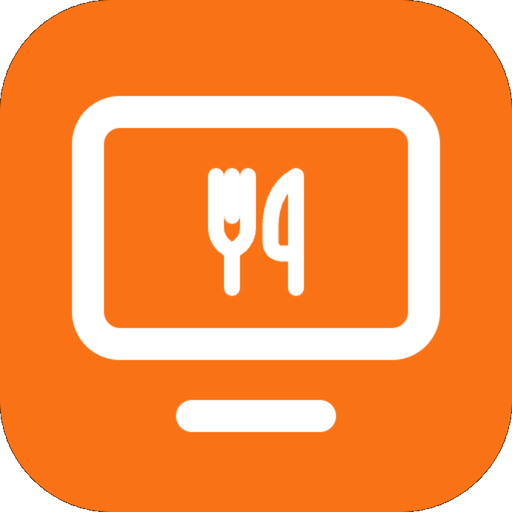
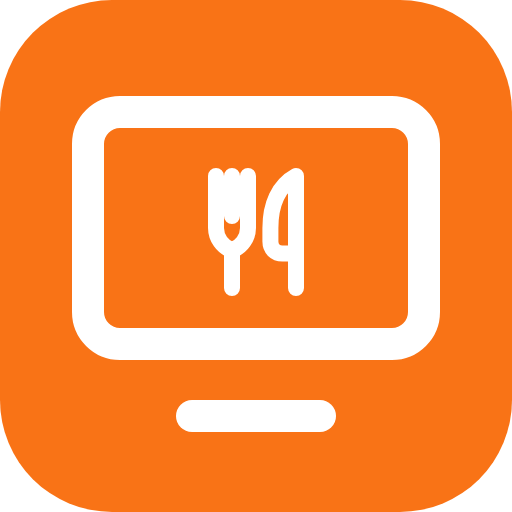
feat: rename Samsung TV app to Jhalak
- name, title and messages: Jhalak
- app ID JhalakTV01.Jhalak (not yet released, so safe to change)
- icon re-rendered from jhalak.app's own logo (menu-favicon.svg, #f97316)
- package output dist/Jhalak.wgt, default signing profile Jhalak

Claude-Session: https://claude.ai/code/session_01HhB58TkvkM69qu5EvorprL

diff --git a/app/js/main.js b/app/js/main.js
@@ -1,5 +1,5 @@
 /*
- * Menu Display launcher for Samsung TVs (Tizen).
+ * Jhalak launcher for Samsung TVs (Tizen).
  *
  * Runs once at app start, then hands the whole window to the display site:
  *   1. Turns the TV screensaver off so the menu stays on screen.
@@ -27,7 +27,7 @@
     var checking = false;
 
     function log(msg) {
-        if (window.console) console.log('[MenuDisplay] ' + msg);
+        if (window.console) console.log('[Jhalak] ' + msg);
     }
 
     function keepScreenOn() {
@@ -55,7 +55,7 @@
     }
 
     function showOffline() {
-        statusEl.textContent = 'Can’t reach Menu Display';
+        statusEl.textContent = 'Can’t reach Jhalak';
         hintEl.hidden = false;
     }
 

diff --git a/app/index.html b/app/index.html
@@ -3,7 +3,7 @@
 <head>
     <meta charset="utf-8">
     <meta name="viewport" content="width=device-width, initial-scale=1">
-    <title>Menu Display</title>
+    <title>Jhalak</title>
     <link rel="stylesheet" href="css/style.css">
     <!-- Samsung TV product APIs (screensaver). Only resolves on a TV; harmless elsewhere. -->
     <script src="$WEBAPIS/webapis/webapis.js"></script>

diff --git a/README.md b/README.md
@@ -1,6 +1,6 @@
-# Menu Display for Samsung TV (Tizen)
+# Jhalak for Samsung TV (Tizen)
 
-A small Tizen web app that puts the Menu Display menu board
+A small Tizen web app that puts the Jhalak menu board
 (`https://jhalak.app/cast`) full screen on a Samsung Smart TV.
 
 > Branch `Samsung`. The Fire TV / Android app (React Native) lives on
@@ -11,7 +11,7 @@ A small Tizen web app that puts the Menu Display menu board
 `app/index.html` + `app/js/main.js` run once at launch:
 
 1. Turn the TV screensaver off (`webapis.appcommon.setScreenSaver`).
-2. Check the site is reachable. If not, show a "Can't reach Menu Display"
+2. Check the site is reachable. If not, show a "Can't reach Jhalak"
    screen and retry (5 s, backing off to 60 s, and immediately when the
    network comes back).
 3. Open `/cast` as the app's page. From there the site does everything:
@@ -36,11 +36,11 @@ app/            the Tizen project (this folder is what gets packaged)
   icon.png      512x512 launcher icon
 scripts/
   check.sh      validate without the Tizen SDK
-  package.sh    build + sign dist/MenuDisplay.wgt
+  package.sh    build + sign dist/Jhalak.wgt
   install.sh    install + launch on a TV
 ```
 
-App ID `MnuDspTV01.MenuDisplay`. Keep the package ID `MnuDspTV01` for every
+App ID `JhalakTV01.Jhalak`. Keep the package ID `JhalakTV01` for every
 release so TVs update the app in place.
 
 ## One-time setup
@@ -50,7 +50,7 @@ release so TVs update the app in place.
    Add `<tizen-studio>/tools/ide/bin` and `<tizen-studio>/tools` to `PATH`
    (for `tizen` and `sdb`).
 2. In **Certificate Manager**, create a **Samsung** certificate profile named
-   `MenuDisplay` (sign in with a Samsung account). Add your TV's DUID to the
+   `Jhalak` (sign in with a Samsung account). Add your TV's DUID to the
    distributor certificate. A plain Tizen certificate won't install on retail
    TVs.
 3. On the TV: **Apps** → press `1 2 3 4 5` on the remote → turn
@@ -60,7 +60,7 @@ release so TVs update the app in place.
 
 ```sh
 npm run check                 # sanity checks, no SDK needed
-npm run package               # -> dist/MenuDisplay.wgt (TIZEN_PROFILE=MenuDisplay)
+npm run package               # -> dist/Jhalak.wgt (TIZEN_PROFILE=Jhalak)
 npm run tv -- 192.168.1.50    # install + launch on the TV
 ```
 
